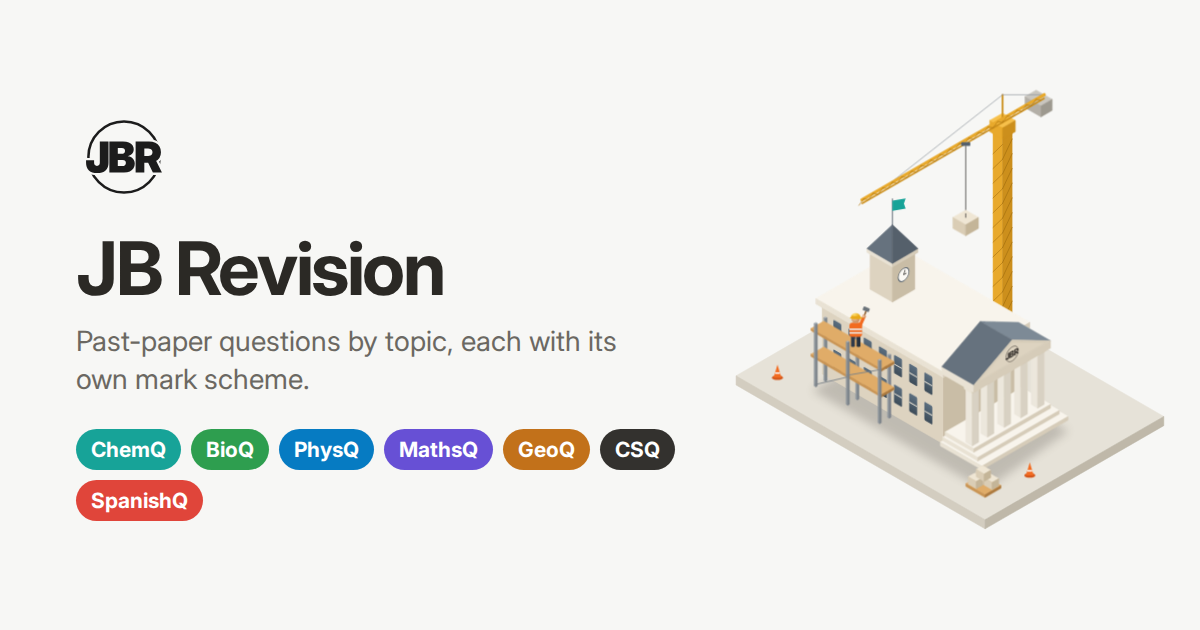
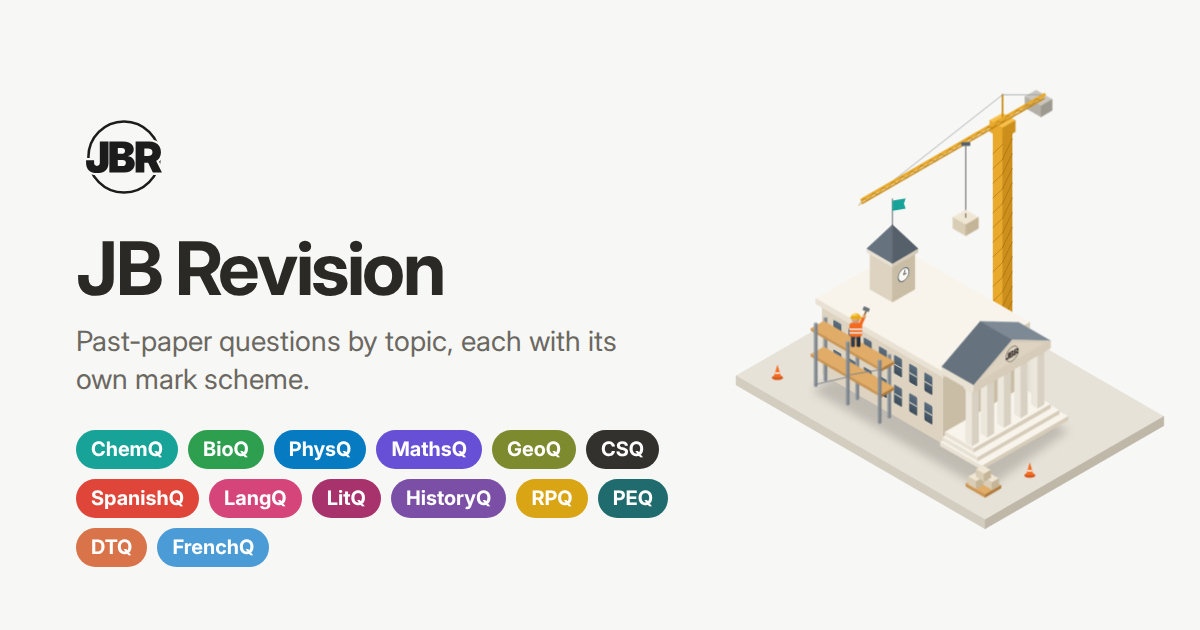
Say 14 subjects on the sign-in page and its share image
The sign-in page still said "7 GCSE and IGCSE subjects" and the link-preview
image (og.png) showed only the original seven subject pills. Both now cover
all 14 sites, with the current names and colours from hub.json.

Claude-Session: https://claude.ai/code/session_01LnQ2EoUwXvGqLKNu7sexrP

Changed region(s): [[0.0617, 0.6635, 0.5858, 0.9048]]

diff --git a/login.html b/login.html
@@ -44,7 +44,7 @@
       <p class="login-switch"><span>New here?</span> <a href="#signup">Create an account</a></p>
       <p class="login-note">You stay signed in for 6 hours.</p>
       <p class="login-agree" hidden>By creating an account you agree to the <a href="/terms">Terms and Conditions</a> and the <a href="/privacy">Privacy Policy</a>.</p>
-      <p class="login-about">Past-paper questions by topic, each with its own mark scheme, for 7 GCSE and IGCSE subjects.</p>
+      <p class="login-about">Past-paper questions by topic, each with its own mark scheme, for 14 GCSE and IGCSE subjects.</p>
       <p class="login-legal"><a href="/privacy">Privacy Policy</a> · <a href="/terms">Terms</a> · <a href="#" data-cookie-settings>Cookie settings</a> · <span class="foot-email">contact@jbrevision.co.uk</span></p>
     </form>
   </main>
